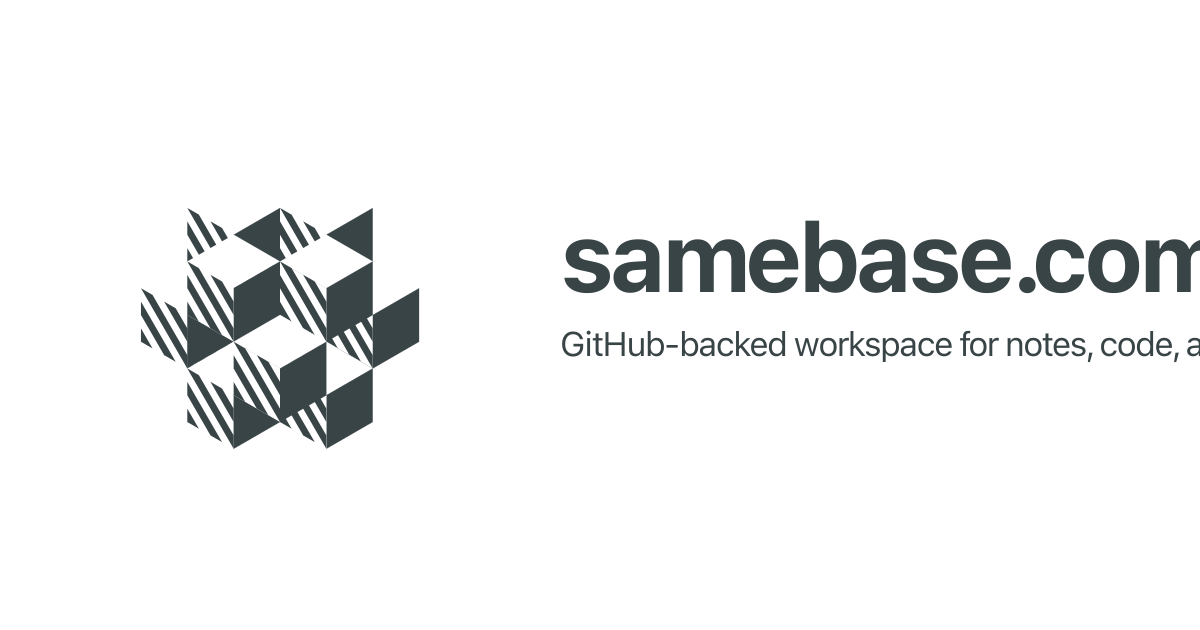
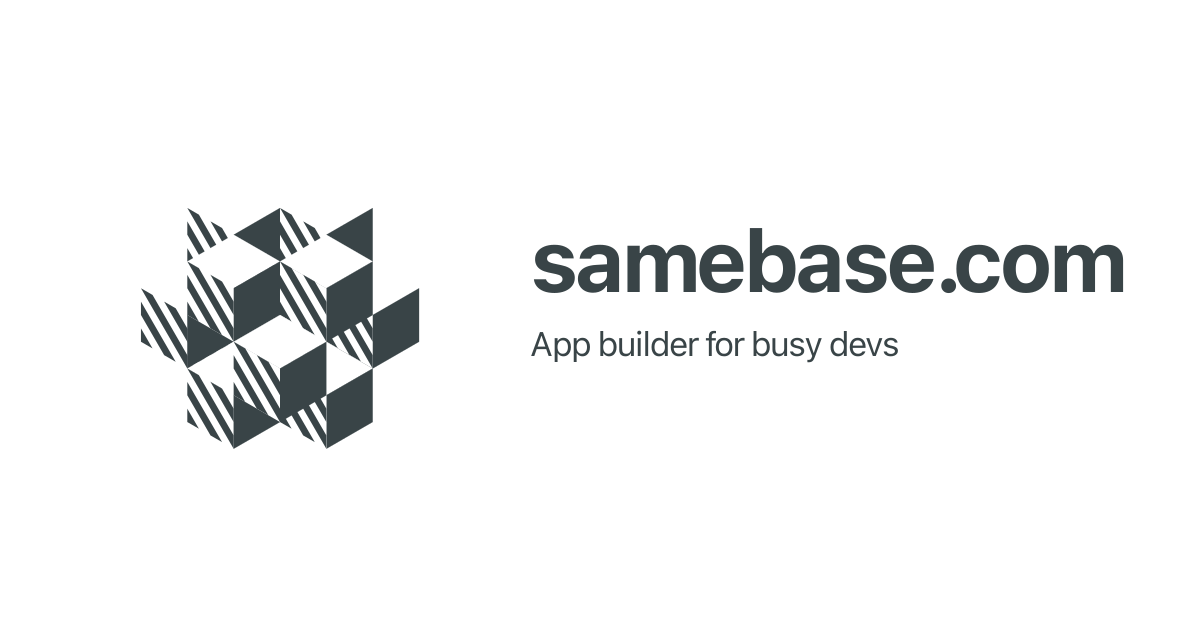
Fix social card text overflow

Changed region(s): [[0.4317, 0.3317, 1.0, 0.4825], [0.4317, 0.5127, 1.0, 0.573]]

diff --git a/apps/samebase/src/components/socialLogoAssets.ts b/apps/samebase/src/components/socialLogoAssets.ts
@@ -4,6 +4,66 @@ import { SAMEBASE_BRAND_COPY } from "../lib/samebaseBrandCopy";
 
 const BRAND_PRIMARY_COLOR = "#394447";
 const BRAND_BACKGROUND_COLOR = "#ffffff";
+const SOCIAL_CARD_TEXT_X = 530;
+const SOCIAL_CARD_SITE_NAME_Y = 292;
+const SOCIAL_CARD_SITE_NAME_FONT_SIZE = 86;
+const SOCIAL_CARD_TAGLINE_FIRST_LINE_Y = 356;
+const SOCIAL_CARD_TAGLINE_FONT_SIZE = 34;
+const SOCIAL_CARD_TAGLINE_LINE_HEIGHT = 42;
+const SOCIAL_CARD_TAGLINE_MAX_CHARACTERS = 34;
+
+function escapeSvgText(text: string): string {
+  return text.replace(/&/gu, "&amp;").replace(/</gu, "&lt;").replace(/>/gu, "&gt;");
+}
+
+function wrapSocialCardText(text: string): string[] {
+  const words = text
+    .trim()
+    .split(/\s+/u)
+    .filter((word) => word.length > 0);
+  const lines: string[] = [];
+  let currentLine = "";
+
+  for (const word of words) {
+    if (currentLine.length === 0) {
+      currentLine = word;
+      continue;
+    }
+
+    const nextLine = `${currentLine} ${word}`;
+    if (nextLine.length <= SOCIAL_CARD_TAGLINE_MAX_CHARACTERS) {
+      currentLine = nextLine;
+      continue;
+    }
+
+    lines.push(currentLine);
+    currentLine = word;
+  }
+
+  if (currentLine.length > 0) {
+    lines.push(currentLine);
+  }
+
+  return lines.length > 0 ? lines : [""];
+}
+
+function createSocialCardTaglineTextMarkup(): string {
+  return wrapSocialCardText(SAMEBASE_BRAND_COPY.socialCard.text)
+    .map(
+      (line, index) => `  <text
+    x="${SOCIAL_CARD_TEXT_X}"
+    y="${SOCIAL_CARD_TAGLINE_FIRST_LINE_Y + index * SOCIAL_CARD_TAGLINE_LINE_HEIGHT}"
+    fill="${BRAND_PRIMARY_COLOR}"
+    font-family="ui-sans-serif, system-ui, -apple-system, BlinkMacSystemFont, 'Segoe UI', sans-serif"
+    font-size="${SOCIAL_CARD_TAGLINE_FONT_SIZE}"
+    font-weight="430"
+    letter-spacing="0"
+  >
+    ${escapeSvgText(line)}
+  </text>`,
+    )
+    .join("\n");
+}
 
 function readSvgBody(svgMarkup: string): string {
   const openTagEnd = svgMarkup.indexOf(">");
@@ -25,6 +85,7 @@ export function createSamebaseSocialCardSvgMarkup({
   faceTreatment?: LogoFaceTreatment;
 } = {}) {
   const logoBody = createLogoSvgBody("spatial", faceTreatment);
+  const taglineTextMarkup = createSocialCardTaglineTextMarkup();
 
   return `<svg
   xmlns="http://www.w3.org/2000/svg"
@@ -34,9 +95,9 @@ export function createSamebaseSocialCardSvgMarkup({
   role="img"
   aria-labelledby="title desc"
 >
-  <title id="title">${SAMEBASE_BRAND_COPY.socialCard.title}</title>
+  <title id="title">${escapeSvgText(SAMEBASE_BRAND_COPY.socialCard.title)}</title>
   <desc id="desc">
-    ${SAMEBASE_BRAND_COPY.socialCard.accessibleDescription}
+    ${escapeSvgText(SAMEBASE_BRAND_COPY.socialCard.accessibleDescription)}
   </desc>
 
   <rect width="1200" height="630" fill="${BRAND_BACKGROUND_COLOR}" />
@@ -46,27 +107,17 @@ ${logoBody}
   </svg>
 
   <text
-    x="560"
-    y="292"
+    x="${SOCIAL_CARD_TEXT_X}"
+    y="${SOCIAL_CARD_SITE_NAME_Y}"
     fill="${BRAND_PRIMARY_COLOR}"
     font-family="ui-sans-serif, system-ui, -apple-system, BlinkMacSystemFont, 'Segoe UI', sans-serif"
-    font-size="96"
+    font-size="${SOCIAL_CARD_SITE_NAME_FONT_SIZE}"
     font-weight="650"
     letter-spacing="0"
   >
-    ${SAMEBASE_BRAND_COPY.siteName}
+    ${escapeSvgText(SAMEBASE_BRAND_COPY.siteName)}
   </text>
-  <text
-    x="560"
-    y="356"
-    fill="${BRAND_PRIMARY_COLOR}"
-    font-family="ui-sans-serif, system-ui, -apple-system, BlinkMacSystemFont, 'Segoe UI', sans-serif"
-    font-size="34"
-    font-weight="430"
-    letter-spacing="0"
-  >
-    ${SAMEBASE_BRAND_COPY.socialCard.text}
-  </text>
+${taglineTextMarkup}
 </svg>`;
 }
 

diff --git a/apps/samebase/src/lib/pageMetadata.test.ts b/apps/samebase/src/lib/pageMetadata.test.ts
@@ -8,6 +8,7 @@ import {
   resolveNotFoundPageMetadata,
   resolvePageMetadata,
 } from "./pageMetadata";
+import { SAMEBASE_BRAND_COPY } from "./samebaseBrandCopy";
 
 class FakeHeadElement {
   readonly attributes = new Map<string, string>();
@@ -209,11 +210,10 @@ describe("page metadata", () => {
       }),
     ).toEqual({
       canonicalPath: "/",
-      description:
-        "GitHub-backed workspace for notes, code, and AI. Keep work in a real repository, collaborate in real time, and ship small apps from the same workspace.",
+      description: SAMEBASE_BRAND_COPY.homepage.description,
       openGraphType: "website",
       robots: "index,follow",
-      title: "Samebase | GitHub-backed workspace for notes, code, and AI",
+      title: SAMEBASE_BRAND_COPY.homepage.title,
     });
   });
 

diff --git a/apps/samebase/src/lib/samebaseBrandCopy.ts b/apps/samebase/src/lib/samebaseBrandCopy.ts
@@ -1,4 +1,4 @@
-const tagline = "GitHub-backed workspace for notes, code, and AI";
+const tagline = "App builder for busy devs";
 
 export const SAMEBASE_BRAND_COPY = {
   productName: "Samebase",
@@ -6,7 +6,7 @@ export const SAMEBASE_BRAND_COPY = {
   tagline,
   homepage: {
     title: `Samebase | ${tagline}`,
-    description: `${tagline}. Keep work in a real repository, collaborate in real time, and ship small apps from the same workspace.`,
+    description: `${tagline}. Code & data on your own infra.`,
   },
   socialCard: {
     title: "samebase.com social card",
